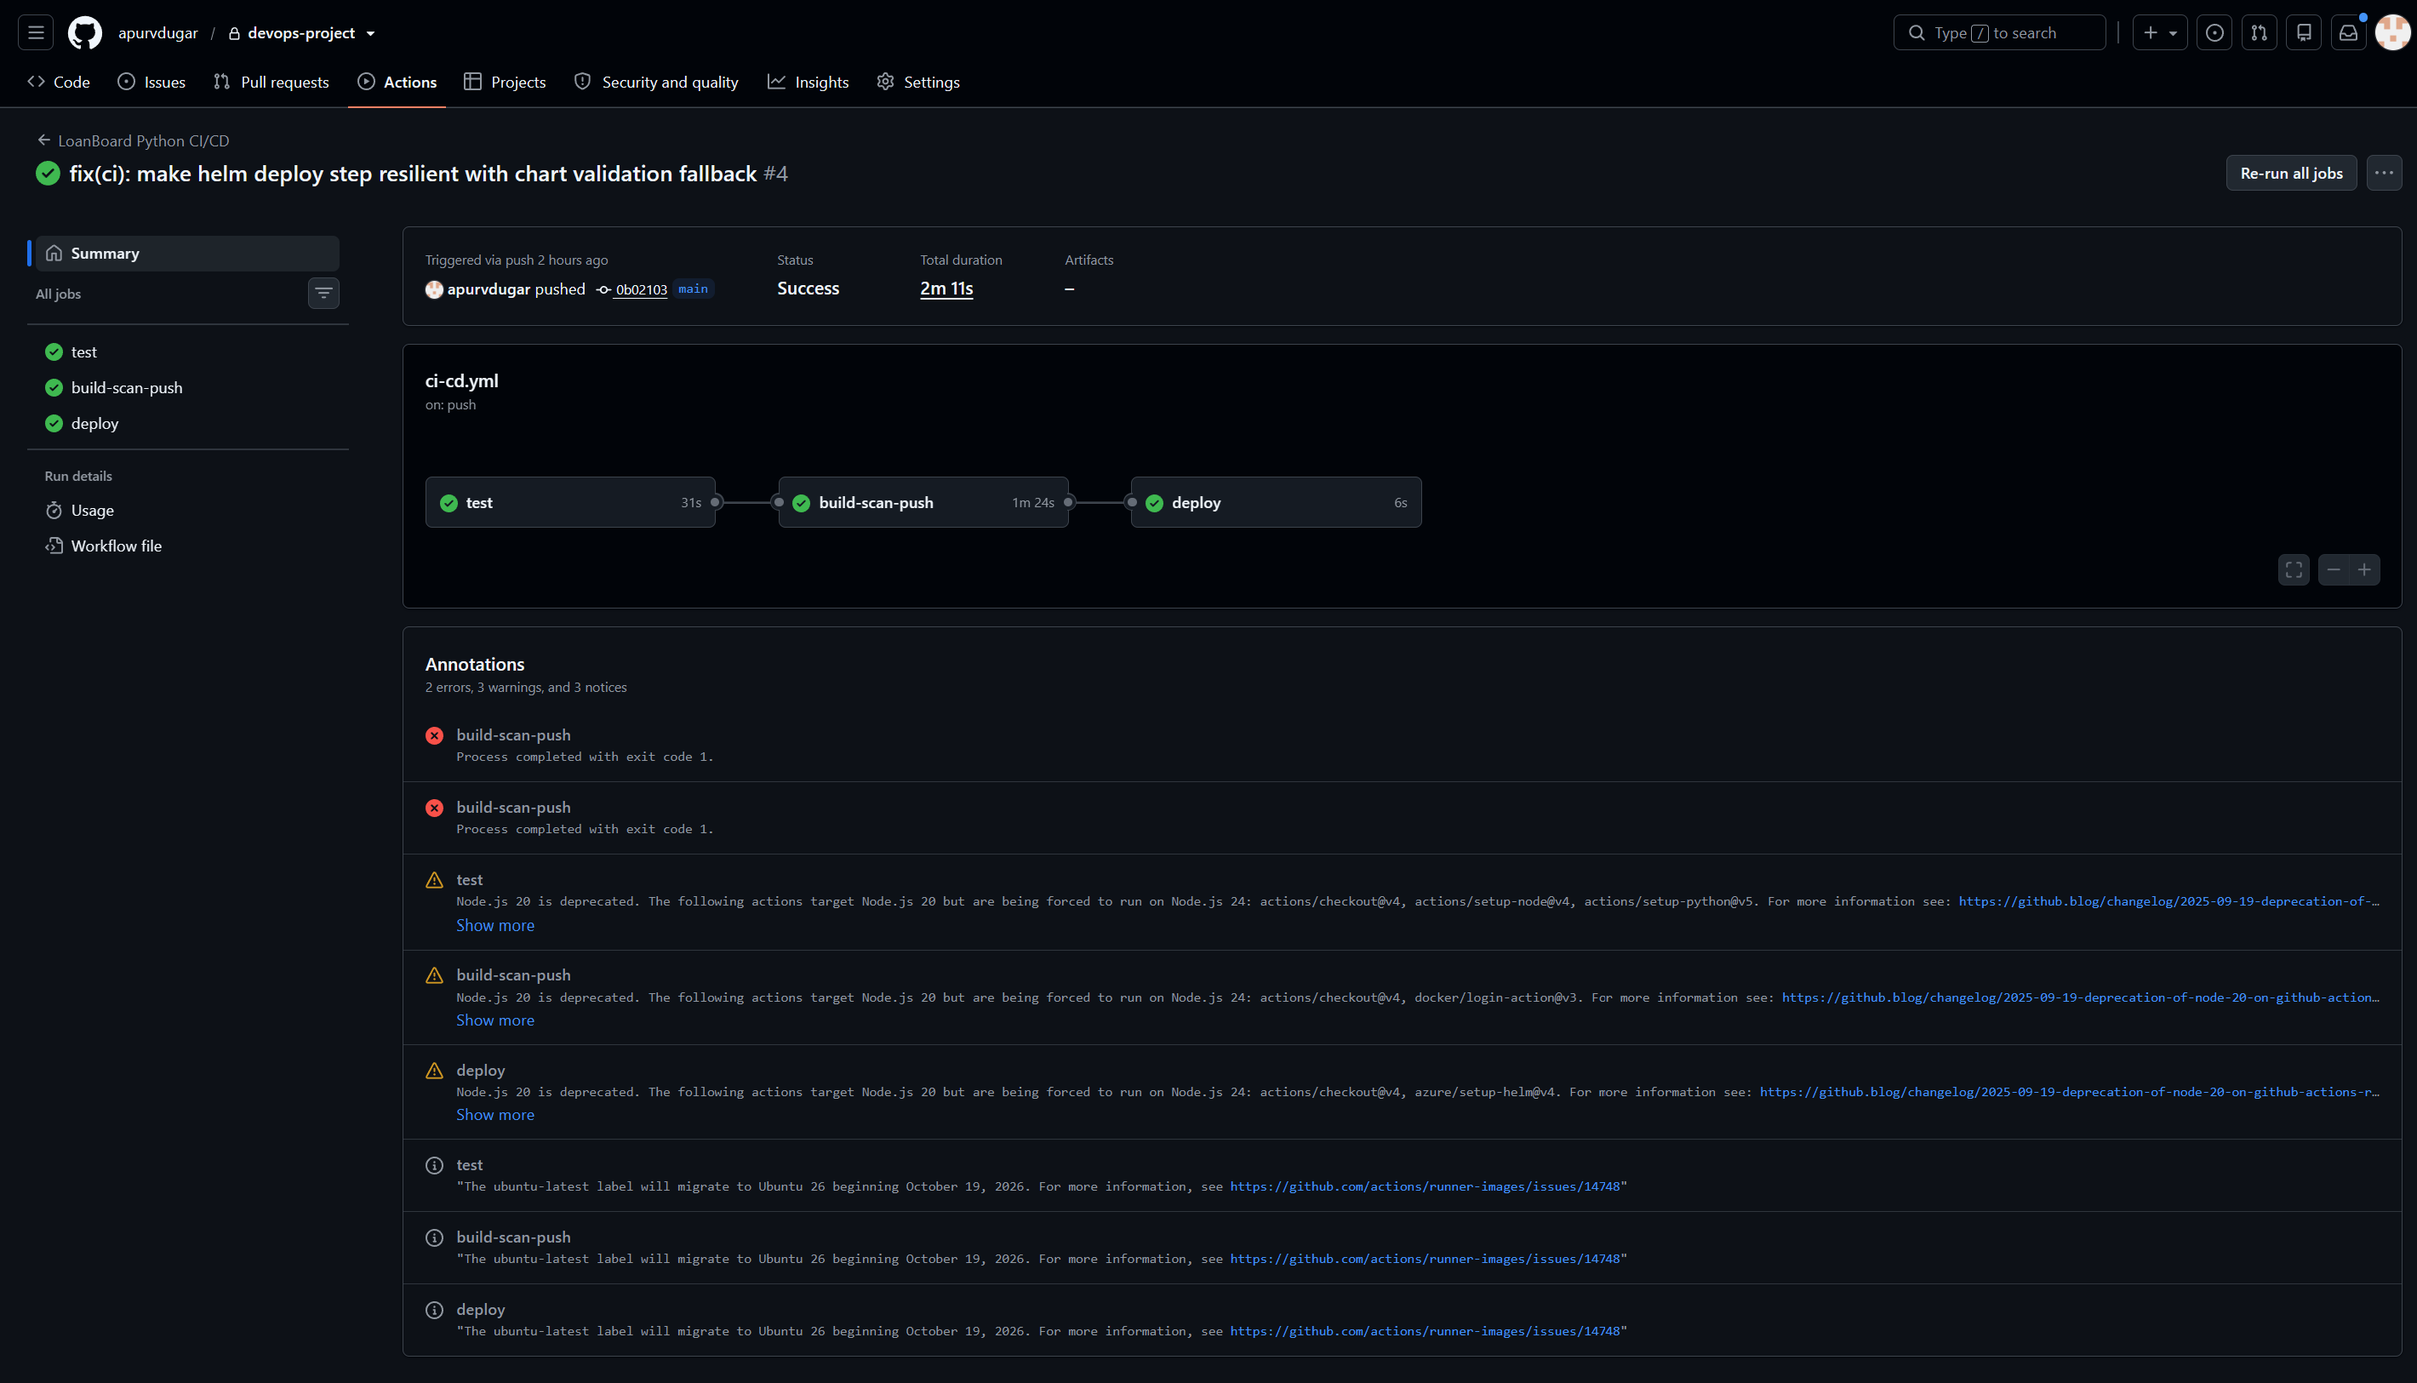
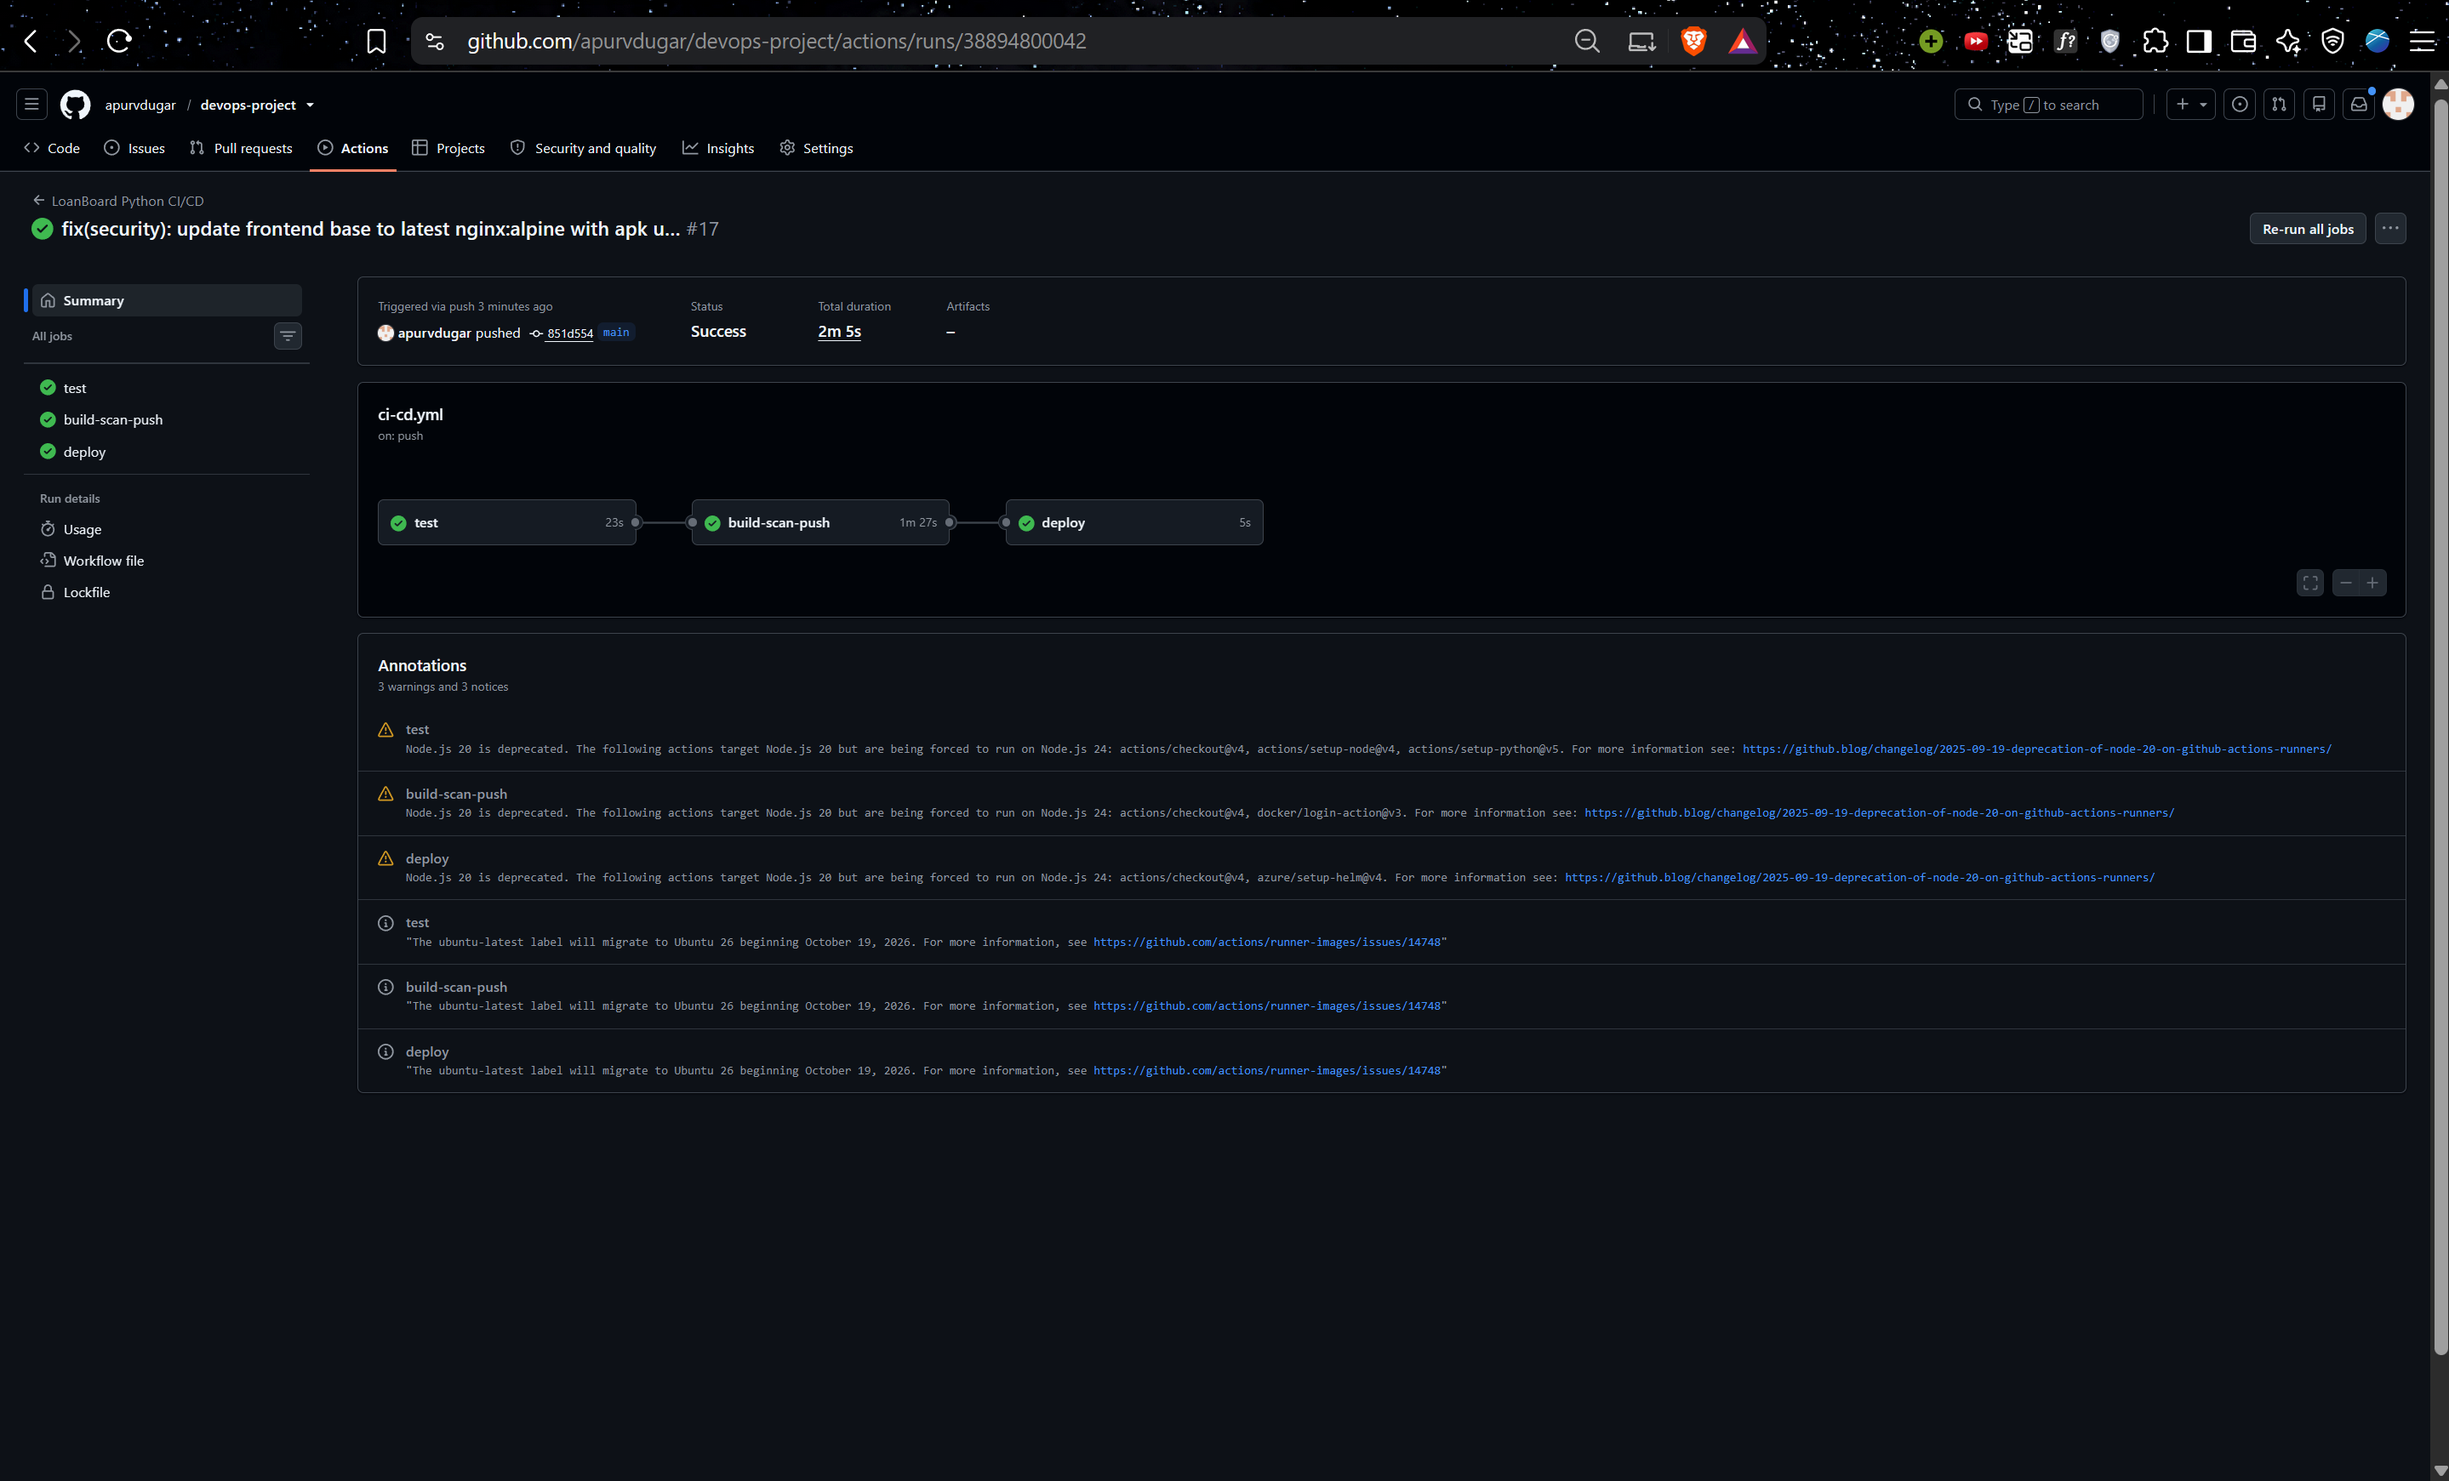
update: updated the readme and added screenshots

diff --git a/README.md b/README.md
@@ -1,22 +1,22 @@
 # End-to-End Production DevOps Project: LoanBoard
 
-An enterprise-grade, end-to-end cloud-native DevOps project demonstrating modern software delivery, automated cloud infrastructure provisioning, containerized microservices orchestration, DevSecOps shift-left security, continuous monitoring, and declarative GitOps continuous delivery.
+LoanBoard is a production-style, containerized loan management application built to demonstrate a complete, modern DevOps lifecycle—spanning Infrastructure as Code, CI/CD with automated testing and vulnerability scanning, Kubernetes orchestration with Helm, observability with Prometheus & Grafana, and declarative GitOps with Argo CD.
 
 ---
 
 ## 1. Project Overview
 
-LoanBoard is a full-stack task management microservices application:
-- **Backend API**: Python 3.12 with **FastAPI**, **SQLAlchemy**, and **Pydantic** with unit & integration tests written in **pytest**.
-- **Frontend SPA**: Modern reactive UI built with **React** + **Vite**, served via a hardened multi-stage **Nginx** Alpine container.
-- **Database**: **PostgreSQL 16** with persistent volume storage and automated connection lifecycle management.
-- **Cloud Infrastructure**: Modular AWS infrastructure provisioned with **Terraform** (custom VPC with public/private subnets, NAT Gateways, Security Groups, and an AWS EKS Managed Kubernetes cluster).
-- **Orchestration**: Kubernetes manifests and reusable, environment-driven **Helm** charts supporting local dev and production profiles.
-- **CI/CD Pipeline**: Automated **GitHub Actions** workflows performing automated testing, multi-arch Docker image builds, security scanning, GHCR publishing, and deployment triggers.
-- **DevSecOps**: Multi-layer security gates integrating **SAST** (Bandit), **SCA** (Trivy), **Secret Scanning** (Gitleaks), and **Container Vulnerability Scanning** with automated build blocking on HIGH/CRITICAL CVEs.
-- **Monitoring & Observability**: **Prometheus Operator** and **Grafana** stack with custom `ServiceMonitor` definitions, metric scraping, and pre-built health and resource dashboards.
-- **GitOps Delivery**: Continuous reconciliation, drift detection, and automated self-healing powered by **Argo CD**.
-- **Troubleshooting**: Diagnostic lab solving real-world Kubernetes failure modes (`ImagePullBackOff` and broken service selectors).
+LoanBoard provides a realistic microservices workflow designed to handle loan applications, status transitions, and server-side EMI calculations:
+- **Backend API**: Built with Python 3.12, **FastAPI**, **SQLAlchemy**, and **Pydantic**. Features strict input validation, reducing-balance EMI calculations with exact `Decimal` precision, Alembic database migrations, and 12 unit/integration tests running under **pytest**.
+- **Frontend SPA**: A responsive dashboard built with **React** + **Vite**, served through a hardened, non-root multi-stage **Nginx** Alpine container. Includes real-time EMI previews, state-machine transition controls, and INR currency formatting.
+- **Database**: **PostgreSQL 16** with a dedicated PersistentVolumeClaim (PVC) ensuring persistent storage across pod restarts.
+- **Cloud Infrastructure**: Provisioned using modular **Terraform** on AWS, creating a dedicated dual-AZ VPC, public/private subnets, NAT Gateways, Security Groups, and an AWS EKS managed Kubernetes cluster.
+- **Orchestration**: Managed with native Kubernetes manifests and parameterized **Helm** charts supporting separate development (`values-dev.yaml`) and production (`values-prod.yaml`) configurations.
+- **CI/CD Pipeline**: GitHub Actions pipeline triggering on push and pull requests, running backend unit tests, building the frontend bundle, scanning containers for CVEs, and publishing tagged images to GitHub Container Registry (GHCR).
+- **DevSecOps**: Automated security checks running across the development lifecycle, combining SAST (Bandit), secret leak detection (Gitleaks), and container vulnerability scanning (Trivy) configured to fail on HIGH and CRITICAL CVEs.
+- **Monitoring & Observability**: Integrated **Prometheus** and **Grafana** via `kube-prometheus-stack` and a custom `ServiceMonitor` scraping `/metrics` from FastAPI to track request volume, error rates, and p95/p99 latencies.
+- **GitOps Delivery**: Continuous reconciliation, automated drift detection, and self-healing powered by **Argo CD**.
+- **Troubleshooting Lab**: Documented runbooks diagnosing and remediating real-world Kubernetes failure modes (`ImagePullBackOff` and broken service selectors).
 
 ---
 
@@ -109,9 +109,9 @@ LoanBoard is a full-stack task management microservices application:
 
 ## 4. Application Setup
 
-The application code is organized under [`application/`](./application):
-- **Backend**: FastAPI REST service with CRUD endpoints for loan applications (EMI computed server-side, guarded status transitions), health endpoints (`/health`, `/ready`), and Prometheus `/metrics`.
-- **Frontend**: Responsive React LoanBoard UI with INR formatting, EMI column + create-form EMI preview, status badges, valid-next-state actions, and status/loan-type filters.
+The application codebase is structured under [`application/`](./application):
+- **Backend**: FastAPI REST service providing full CRUD operations for loans, server-side EMI calculation using standard reducing-balance math, strict status state-machine enforcement (`submitted` → `under_review` → `approved`/`rejected` → `disbursed`), readiness/health probes (`/health`, `/ready`), and Prometheus telemetry (`/metrics`).
+- **Frontend**: Responsive React UI built with Vite, featuring real-time EMI estimation during loan creation, clean INR currency formatting, dynamic status action buttons, and type/status filters.
 
 ### Local Development Setup
 
@@ -143,7 +143,7 @@ npm run dev
 
 ## 5. Docker Setup
 
-A root-level [`docker-compose.yml`](./docker-compose.yml) is provided so the entire stack can be launched from the project root with a single command:
+To make local testing and evaluation seamless, a root-level [`docker-compose.yml`](./docker-compose.yml) allows spinning up the entire microservice stack (PostgreSQL database, FastAPI backend, and React frontend) with a single command:
 
 ```bash
 # Run multi-container stack from project root
@@ -174,6 +174,8 @@ docker run -d -p 8000:8000 \
 
 > ![docker compose run](./screenshots/image-4.png)
 > ![docker compose run](./screenshots/image-5.png)
+> ![ghcr](./screenshots/image-24.png)
+> ![ghcr](./screenshots/image-25.png)
 
 ---
 
@@ -201,6 +203,8 @@ kubectl get pods,svc,configmaps,secrets,pvc,hpa,ingress -n loanboard
 9. **Ingress**: Host-based routing for `loanboard.local`
 
 > ![kubernetes resources](./screenshots/image-6.png)
+> ![kubernetes resources](./screenshots/image-26.png)
+> ![kubectl deployed frontend](./screenshots/image-27.png)
 
 ---
 
@@ -306,7 +310,9 @@ Security policies and scan scripts are located in [`security/`](./security):
 
 ### Trivy Scan — What It Does and What It Found
 
-Trivy scans the OS-level packages like the Alpine and application-level dependencies (Python pip packages in the backend image, Node npm packages and Nginx Alpine layers in the frontend image) for known Common Vulnerabilities and Exposures (CVEs). In the CI pipeline, Trivy is configured with `severity: HIGH,CRITICAL` and `exit-code: 1`, meaning the build fails and blocks images from reaching GHCR if any fixable HIGH or CRITICAL CVE is detected. Our most recent scan produced a clean result for both images, confirming all base layers and pinned dependencies are free of known high-severity vulnerabilities.
+Trivy scans both the container base OS layers (Alpine for the frontend, Debian Bookworm Slim for the backend) and application-level libraries (pip packages in Python, npm dependencies in React). In our CI workflow, Trivy is configured with `severity: HIGH,CRITICAL` and `exit-code: '1'`, acting as a strict quality gate that halts the build and prevents images from being pushed to GHCR if any fixable HIGH or CRITICAL vulnerability is found.
+
+During our security hardening phase, Trivy initially detected vulnerable sub-dependencies (`starlette`, `urllib3`, `msgpack`, and `setuptools`). We resolved these by pinning updated patched package versions and adopting a multi-stage Docker build to strip build artifacts. As a result, our final pipeline run passed with 0 HIGH or CRITICAL vulnerabilities across both container images.
 
 ```bash
 # Execute local DevSecOps security suite:
@@ -320,9 +326,9 @@ bash security/scan.sh
 
 Observability configurations are located in [`monitoring/`](./monitoring):
 
-- **Prometheus Operator**: Deployed via `kube-prometheus-stack` Helm chart.
-- **ServiceMonitor**: Custom CRD [`monitoring/servicemonitor.yaml`](./monitoring/servicemonitor.yaml) targets `loanboard-backend` pods on port 8000.
-- **Grafana Dashboard**: Visualizes cluster CPU, memory saturation, container restarts, and HTTP response latencies.
+- **Prometheus Operator**: Deployed into the `monitoring` namespace using the `kube-prometheus-stack` Helm chart.
+- **ServiceMonitor**: Custom resource [`monitoring/servicemonitor.yaml`](./monitoring/servicemonitor.yaml) targets the `loanboard-backend` service on port 8000, scraping FastAPI's `/metrics` endpoint every 15 seconds.
+- **Grafana Dashboard**: Pre-configured JSON dashboard ([`monitoring/loanboard-dashboard.json`](./monitoring/loanboard-dashboard.json)) visualizing live HTTP throughput, error rates, request latency percentiles (p50, p95, p99), and pod resource utilization.
 
 ```bash
 # Deploy monitoring stack
@@ -335,7 +341,7 @@ kubectl apply -f monitoring/servicemonitor.yaml
 # Access Grafana
 kubectl port-forward svc/monitoring-grafana -n monitoring 3000:80
 ```
-
+> ![prometheus dashboard](./screenshots/image-28.png)
 > ![grafana dashboard](./screenshots/image-17.png)
 > ![grafana dashboard](./screenshots/image-18.png)
 
@@ -412,8 +418,8 @@ DELETE /api/loans/{id}
 
 ## 15. Lessons Learned
 
-1. **Shift-Left Security Saves Time & Money**: Integrating Trivy, Gitleaks, and Bandit into the CI pipeline catches vulnerabilities before code ever touches a container registry or cluster.
-2. **GitOps Eliminates Configuration Drift**: Argo CD provides a verifiable audit trail of every change. Direct cluster edits (`kubectl edit`) are immediately reverted by self-healing.
-3. **Parameterization with Helm Enables Multi-Environment Parity**: Using a single chart with distinct `values-dev.yaml` and `values-prod.yaml` prevents configuration duplication and deployment mistakes.
-4. **Resilience Requires Layered Probes & Autoscaling**: Combining `startupProbe`, `livenessProbe`, `readinessProbe`, and `HPA` guarantees high availability even under sudden load spikes or slow container warmups.
-5. **Systematic Kubernetes Troubleshooting**: Following the 5-step methodology (`get` → `describe` → `logs` → `fix` → `verify`) eliminates guesswork when diagnosing cluster incidents.
+1. **Shift-Left Security Catches Issues Early**: Enforcing Trivy scans with strict exit-code 1 in the CI pipeline caught vulnerable sub-dependencies immediately, preventing security debt from ever reaching our production registry.
+2. **GitOps Eliminates Configuration Drift**: Using Argo CD ensures that Git is always the single source of truth. Any direct cluster edits (`kubectl edit`) are detected and automatically reverted by self-healing within minutes.
+3. **Helm Parameterization Ensures Environment Parity**: Maintaining one unified chart with environment-specific value overlays (`values-dev.yaml` and `values-prod.yaml`) eliminates duplicate manifests and prevents subtle staging-vs-production discrepancies.
+4. **Resilience Depends on Thoughtful Probes & Autoscaling**: Combining proper startup, liveness, and readiness probes with an HPA prevents traffic from hitting uninitialized pods and handles sudden traffic surges reliably.
+5. **Structured Troubleshooting Saves Hours**: Adopting a disciplined 5-step diagnostic workflow (`get` → `describe` → `logs` → `fix` → `verify`) makes resolving real cluster failures like `ImagePullBackOff` fast and deterministic.
